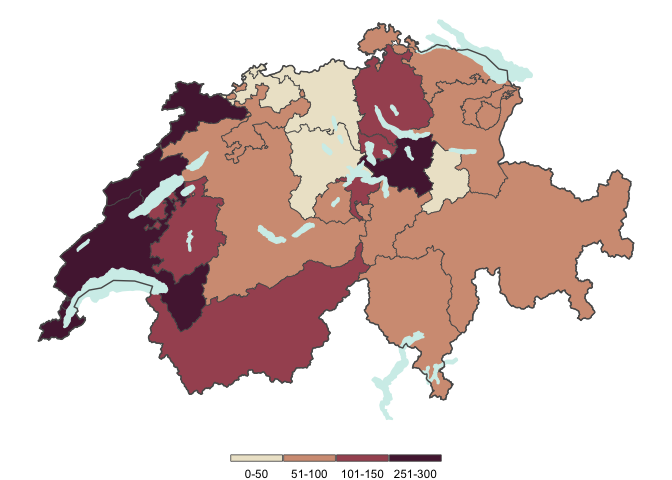
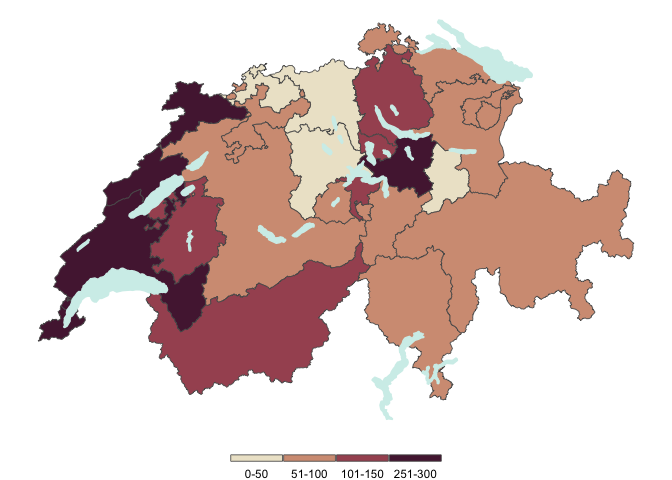
finalised maps covid

diff --git a/covid_swiss_map/map_swiss_covid.md b/covid_swiss_map/map_swiss_covid.md
@@ -1,21 +1,26 @@
-Making a map of COVID-19 incidence in Switzerland, with {ggplot2}
+Making a map of COVID-19 incidence in Switzerland using {ggplot2} and
+`{sf}`
 ================
 
-In this article, we are going to visualise the spatial distribution of
-COVID-19 incidence, in the last 14 days, in Switzerland. In the last
-article, we have explored how to visualise COVID-19 time series data,
-and we have animated the visualisation using `{gganimate}`.
+In the past years, creating beautiful maps in R has become fairly
+simple, thanks to the `{sf}` package. In this article, we are going to
+visualise the spatial distribution of COVID-19 incidence, in the last 14
+days in Switzerland, by creating a thematic map, also known as
+*choropleth* map. Previously, we had explored how to visualise and
+animate COVID-19 time series data, using `{ggplot2}` and `{gganimate}`.
 
-This time, we are going to rely on `{sf}` and `{ggplot2}`.
+This time, we are going to rely on `{sf}` and `{ggplot2}` as our main
+tools.
 
-`{sf}`, which stands for simple feature, is the library that we are
-using to deal with spatial vectorial data, which is data that describes
-geographical geometries as a series of points, whose coordinates are the
-*longitude* and the *latitude*. This package is the go-to tool for
-importing, manipulating and plotting this kind of data.
+`{sf}`, which stands for simple feature, is the go-to library to deal
+with spatial vectorial data, which is data that describes geographical
+geometries as a series of points, that are described by their
+*longitude* and the *latitude* coordinates. It allows for importing,
+manipulating and plotting geographical shapes, letting us deal with data
+in table-like format, just like a data.frame. Such a relief\!
 
-We are using `{readxl}` to import the excel file, downloaded from the
-[Swiss Federal Office of Public Health
+In this little exercise, we are using `{readxl}` to import the excel
+file, downloaded from the [Swiss Federal Office of Public Health
 Website](https://www.bag.admin.ch/bag/en/home/krankheiten/ausbrueche-epidemien-pandemien/aktuelle-ausbrueche-epidemien/novel-cov/situation-schweiz-und-international.html).
 `{rcartocolor}` is the R library that includes nice looking colour
 scales, that have been developed for cartography. As David Letterman
@@ -29,14 +34,16 @@ library(readxl)
 ```
 
 Let’s start loading the data, using `read_excel()`, in which we can
-define the exact name of the `sheet` that we want to load, how many line
-we can `skip` and how many lines we want to `keep`. We have one row per
-canton and a row for the title, which means that we need to keep only 27
-rows (the Swiss cantons are 26).
+define the exact name of the `sheet` that we want to load, how many
+lines we may `skip` and how many lines we want to `keep` overall. We
+have one row per canton and a row for the title, which means that we
+need to keep only 27 rows (the Swiss cantons are 26).
 
 We also clean a bit the column names using the `clean_names` from the
-`{janitor}` package and using `transmute` to rename the wanted columns
-and drop the others.
+`{janitor}` package and use `transmute` to rename the wanted columns and
+drop the others.
+
+> Until now, simple data import and manipulation.
 
 ``` r
 covid_incidence <- read_excel("resources/200325_dati di base_grafica_COVID-19-rapporto.xlsx", 
@@ -71,13 +78,13 @@ We have now one variable which contains the canton codes, and one
 variable that contains the incidence per 100’000, by canton, of COVID-19
 in the last 14 days.
 
-We are now ready to load the shapefiles.
+We are now ready to load the **shapefiles**.
 
 > Wait, what are the shapefiles?
 
-Shapefiles, are the files that contain the shapes that we want to plot.
-We want to plot the cantonal data, so we need to get the swiss cantons
-shapes, which can be downloaded from
+Shapefiles, are the files that contain the geographical shapes that we
+want to plot. We want to plot the cantonal data, so we need to get the
+swiss cantons shapes, which can be downloaded from
 [here](https://www.bfs.admin.ch/bfs/en/home/services/geostat/swiss-federal-statistics-geodata/administrative-boundaries/generalized-boundaries-local-regional-authorities.html).
 
 Shapefiles are actually a set of files, which contain different
@@ -86,28 +93,17 @@ the `.shp` extension and this is the one that we are going to load.
 
 > Beware that you need to have all the other files in the same folder.
 
-Now we can therefore load 3 shapefiles, one that contains the swiss
-border shape, one that containts the shape of the major lakes of
-Switzerland and one that contains the swiss cantons.
+Now we can therefore load 2 shapefiles, one that contains the shapes of
+the canton borders and one that contains the shape of the major lakes of
+Switzerland.
 
 Let’s load them and see how they look like.
-
-``` r
-swiss_border <- st_read("resources/g2l15.shp")
-```
-
-    ## Reading layer `g2l15' from data source `/Users/gruggeri/Documents/ADSCV/Social_media/resources/g2l15.shp' using driver `ESRI Shapefile'
-    ## Simple feature collection with 1 feature and 12 fields
-    ## geometry type:  POLYGON
-    ## dimension:      XY
-    ## bbox:           xmin: 485411 ymin: 75286.54 xmax: 833837.9 ymax: 295933.8
-    ## projected CRS:  CH1903 / LV03
 
 ``` r
 swiss_lakes <- st_read("resources/g2s15.shp")
 ```
 
-    ## Reading layer `g2s15' from data source `/Users/gruggeri/Documents/ADSCV/Social_media/resources/g2s15.shp' using driver `ESRI Shapefile'
+    ## Reading layer `g2s15' from data source `/Users/gruggeri/Documents/ADSCV/medium_articles/ADSCV_medium/covid_swiss_map/resources/g2s15.shp' using driver `ESRI Shapefile'
     ## Simple feature collection with 22 features and 9 fields
     ## geometry type:  MULTIPOLYGON
     ## dimension:      XY
@@ -118,7 +114,7 @@ swiss_lakes <- st_read("resources/g2s15.shp")
 swiss_cantons <- st_read("resources/G1K09.shp")
 ```
 
-    ## Reading layer `G1K09' from data source `/Users/gruggeri/Documents/ADSCV/Social_media/resources/G1K09.shp' using driver `ESRI Shapefile'
+    ## Reading layer `G1K09' from data source `/Users/gruggeri/Documents/ADSCV/medium_articles/ADSCV_medium/covid_swiss_map/resources/G1K09.shp' using driver `ESRI Shapefile'
     ## Simple feature collection with 26 features and 3 fields
     ## geometry type:  MULTIPOLYGON
     ## dimension:      XY
@@ -131,12 +127,13 @@ class(swiss_cantons)
 
     ## [1] "sf"         "data.frame"
 
-`swiss_cantons`, like the other data that we have just loaded, are
-stored in an `sf data.frame`, so we can manipulate it just like we
-manipulate tibbles (or data.frames) and it stores the geometries in a
-very tidy way: as a nested variable usually called `geometry`. This will
-be your only *special* variable, the others (that are called attributes)
-will just be normal variables.
+`swiss_cantons` and `swiss_lakes`, are stored as `sf data.frame`s, so we
+can manipulate them just like we manipulate tibbles (or data.frames).
+This is possible because geometries are stored in a very tidy way: as a
+nested variable usually called `geometry`. This will be your only
+*special* variable, the others (that are called attributes) will just be
+normal variables. For instance, each canton as its name and code
+associated to the geometry that describes it.
 
 ``` r
 head(swiss_cantons)
@@ -165,11 +162,13 @@ ggplot()+
 
 ![](map_swiss_covid_files/figure-gfm/unnamed-chunk-6-1.png)<!-- -->
 
-And, just like with any `{ggplot2}` chart, we can keep using our
-thinking layer by layer, and apply custom themes. Let’s now add the
-Swiss lakes on top of the canton shapes and use `theme_void()` to remove
-the background and the axis. In this step, we can also remove the fill
-from the cantons and add a light blue fill on the lakes.
+And, just like with any `{ggplot2}` chart, we can reason layer by layer
+when building map. Let’s now add the Swiss lakes on top of the canton
+shapes and use `theme_void()` to remove the background and the axis. In
+this step, we can also make the cantons transparent by setting the
+`fill` argument to NA and add a light teal colour fill the lakes.
+`geom_sf()` indeed works just like any other `geom_` function, no alarms
+and no surprises here.
 
 ``` r
 ggplot()+
@@ -180,9 +179,11 @@ ggplot()+
 
 ![](map_swiss_covid_files/figure-gfm/unnamed-chunk-7-1.png)<!-- -->
 
-Now, how to colour each canton by the shape of COVID-19 incidence? We
-just need to merge the `covid_incidence` tibble and `swiss_cantons`
-table together, using the canton code as merging variable. This will
+Now, how to colour each canton by the magnitude of COVID-19 incidence
+per 100’000 people?
+
+We just need to join the `covid_incidence` tibble and `swiss_cantons`
+table together, using the canton code as joining variable. This will
 allow us to map the variable incidence to the `fill` aesthetic and
 create a **choropleth** map, i.e. a thematic map.
 
@@ -195,8 +196,9 @@ To make our map look pretty, instead of using a numerical variable we
 divide the incidence into categories, so that it will be easier for the
 user to see in which category each canton is.
 
-This a typical practice for choropleth maps, in this case we although
-choose the categories manually.
+This a typical practice for choropleth maps, and it can be done in
+different ways, in this case we decide for a brut-force approach, we do
+it manually.
 
 ``` r
 swiss_cantons <- swiss_cantons %>% 
@@ -209,7 +211,8 @@ swiss_cantons <- swiss_cantons %>%
   mutate(incidence_cat = factor(incidence_cat, levels = c("0-50", "51-100","101-150","151-200","251-300")))
 ```
 
-Now we can map the colour to the `incidence_cat` variable\!
+Now we can map the colour to the `incidence_cat` variable and create the
+first choropleth map.
 
 ``` r
 ggplot(swiss_cantons) +
@@ -241,7 +244,6 @@ ggplot(swiss_cantons) +
             byrow = T,
             label.position = "bottom")) +
   geom_sf(data = swiss_lakes, fill = "#d1eeea", color = "#d1eeea")+
-  geom_sf(data = swiss_border, fill= NA)+
   theme_void() +
   theme(legend.title = element_blank(),
         legend.position = "bottom") 
@@ -290,6 +292,19 @@ ggplot(swiss_cantons) +
 
 ![](map_swiss_covid_files/figure-gfm/unnamed-chunk-12-1.png)<!-- -->
 
-We have seen now how to create a choropleth map, step by step using
-`{ggplot2}` and we have seen also how to customize it to make it look
-exactly how we want it to be.
+We have now the code to create a choropleth map and we have seen how to
+build it step by step using `{ggplot2}`. With a little bit of
+customisation we have now a static map that we save in different format
+and share.
+
+If you are interested in how to deal with geographical data, one of the
+best freely available resource is the [geocomputation with R
+book](https://geocompr.robinlovelace.net). The authors of the book rely
+heavily of different packages for plotting thematic maps, namely
+`{tmap}`, which is also worth exploring. If you want to use packages
+such as `{ggtext}` to customise your plots, `{ggplot2}` is the library
+that you want to rely on, especially if you are already used to work
+with it.
+
+I hope you enjoyed this article and stay tuned for more example on how
+to build maps in R.
